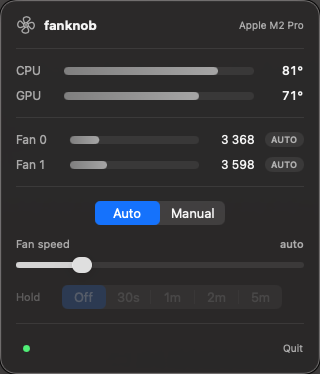
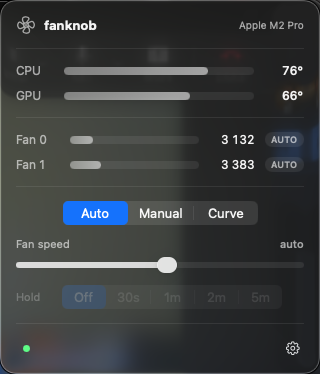
v1.1.0: docs, screenshots, and fixes from live hardware testing
Verified the whole feature set against real fans with the daemon
running, which turned up two bugs:
- The curve-mode slider still showed the stale manual setpoint while
  the label showed the curve's output (11% vs 69%). It now reads from
  the curve, and is inert until you switch to Manual.
- `set --fan` reported the RPM by reading the target back, which is
  stale for tens of ms after a write; it now reports the value the
  write itself resolved.

Measured on an M2 Pro: the quiet curve at 81 °C asked for 37% (matches
the interpolation), pushed fans above firmware, cooled the machine to
73 °C and smoothly backed down to 18% with no hunting. Watchdog tripped
on cue and stayed put. Per-fan left fan 0 at 3215 rpm while fan 1 went
to 5379.

Docs: curves / watchdog / persistence / per-fan sections, refreshed
screenshots (auto + curve), accurate TUI sample, and the UI acceptance
script no longer hardcodes /usr/local/bin.

diff --git a/Sources/fanknobd/Main.swift b/Sources/fanknobd/Main.swift
@@ -62,8 +62,9 @@ final class Controller {
         case .auto:
             break   // the firmware already has the fans after boot
         case .manual(let knobs):
-            for k in knobs where apply(k.pct, fan: k.index, force: true) { }
-            log("restored manual setpoints")
+            for k in knobs { apply(k.pct, fan: k.index, force: true) }
+            log("restored manual setpoints: "
+                + knobs.map { "fan \($0.index) \(Int($0.pct))%" }.joined(separator: ", "))
         case .curve(let curve, let preset):
             log("restored curve: \(preset?.rawValue ?? "custom")")
             applyCurve(curve, force: true)
@@ -84,14 +85,18 @@ final class Controller {
 
     private var fanIndices: [Int] { Array(0..<fanCount(smc)) }
 
-    /// Write one fan. Curve ticks use a deadband so small drifts don't cause
-    /// audible hunting; explicit user commands force the write.
+    /// Write one fan and return the resolved RPM (nil if skipped or failed).
+    /// Curve ticks use a deadband so small drifts don't cause audible hunting;
+    /// explicit user commands force the write.
+    ///
+    /// The RPM comes from the write itself, never from reading the target back
+    /// — the SMC reports stale values for tens of ms after a write.
     @discardableResult
-    private func apply(_ pct: Double, fan: Int, force: Bool = false) -> Bool {
-        if !force, let last = lastApplied[fan], abs(last - pct) < 2 { return true }
-        guard (try? setFanKnob(smc, fan, pct: pct)) != nil else { return false }
+    private func apply(_ pct: Double, fan: Int, force: Bool = false) -> Double? {
+        if !force, let last = lastApplied[fan], abs(last - pct) < 2 { return nil }
+        guard let rpm = try? setFanKnob(smc, fan, pct: pct) else { return nil }
         lastApplied[fan] = pct
-        return true
+        return rpm
     }
 
     private func applyCurve(_ curve: FanCurve, force: Bool = false) {
@@ -219,8 +224,8 @@ final class Controller {
 
         var lines: [String] = []
         for i in fans {
-            if apply(pct, fan: i, force: true), let f = readFan(smc, i) {
-                lines.append(String(format: "fan %d -> %.0f rpm (knob %d%%)", i, f.target, Int(pct)))
+            if let rpm = apply(pct, fan: i, force: true) {
+                lines.append(String(format: "fan %d -> %.0f rpm (knob %d%%)", i, rpm, Int(pct)))
             } else {
                 lines.append("fan \(i): write failed")
             }

diff --git a/Sources/FanknobApp/PopoverView.swift b/Sources/FanknobApp/PopoverView.swift
@@ -227,6 +227,13 @@ private struct ControlSection: View {
 private struct SpeedControl: View {
     @Bindable var model: FanModel
 
+    /// In curve mode the slider is a read-only readout of what the curve is
+    /// asking for; in manual it's the setpoint the user drags.
+    private var sliderBinding: Binding<Double> {
+        Binding(get: { model.displayKnob },
+                set: { if model.mode != .curve { model.knob = $0 } })
+    }
+
     var body: some View {
         VStack(alignment: .leading, spacing: 6) {
             HStack {
@@ -256,7 +263,7 @@ private struct SpeedControl: View {
                     PerFanSlider(model: model, index: fan.index)
                 }
             } else {
-                Slider(value: $model.knob, in: 0...100) { editing in
+                Slider(value: sliderBinding, in: 0...100) { editing in
                     model.editing = editing
                     if editing { model.mode = .manual }   // grabbing = manual intent
                     else { model.applyKnob() }

diff --git a/scripts/toggle-acceptance.py b/scripts/toggle-acceptance.py
@@ -15,11 +15,13 @@ Requirements:
 Usage:  python3 scripts/toggle-acceptance.py
 """
 
+import shutil
 import subprocess
 import sys
 import time
 
 CLICKER = "/tmp/fanknob-click"
+FANKNOB = shutil.which("fanknob") or "./.build/release/fanknob"
 PROC = "FanknobApp"
 TRIALS = 3
 WATCH_SECONDS = 2.2
@@ -68,7 +70,7 @@ def trial(target: tuple[int, int], expect: str, name: str) -> bool:
 
 def main() -> int:
     # Make sure the fans start in auto and the popover is open.
-    subprocess.run(["/usr/local/bin/fanknob", "auto"], capture_output=True)
+    subprocess.run([FANKNOB, "auto"], capture_output=True)
     time.sleep(1)
     if app("count of windows") == "0":
         app("click menu bar item 1 of menu bar 2")
@@ -88,7 +90,7 @@ def main() -> int:
         time.sleep(0.8)
 
     # Leave the fans under firmware control.
-    subprocess.run(["/usr/local/bin/fanknob", "auto"], capture_output=True)
+    subprocess.run([FANKNOB, "auto"], capture_output=True)
     print("RESULT:", "PASS" if ok else "FAIL")
     return 0 if ok else 1
 

diff --git a/README.md b/README.md
@@ -9,7 +9,7 @@
 Control your Mac's fans with a **0–100 knob** (mapped onto each fan's own
 min→max RPM range) and monitor CPU/GPU temperatures. Three faces on one engine:
 
-- **`fanknob`** — CLI (`status`, `temp`, `set`, `auto`, …)
+- **`fanknob`** — CLI (`status`, `set`, `preset`, `curve`, `auto`, …)
 - **`fanknob tui`** — live interactive terminal dashboard
 - **Fanknob.app** — a native SwiftUI **menu-bar app**
 
@@ -19,12 +19,12 @@ Control use. Tested on a MacBook Pro 14" (M2 Pro, macOS 26).
 <p align="center">
   <img src="assets/screenshots/popover-auto.png" width="300" alt="Popover in automatic mode">
   &nbsp;&nbsp;
-  <img src="assets/screenshots/popover-manual.png" width="300" alt="Popover in manual mode with a 30s hold armed">
+  <img src="assets/screenshots/popover-curve.png" width="300" alt="Popover in curve mode with the Balanced preset">
 </p>
 <p align="center">
   <img src="assets/screenshots/menubar.png" alt="Menu bar: fan icon with live CPU temperature">
   <br>
-  <em>Live CPU temperature in the menu bar; the fan turns accent-colored while in manual mode.</em>
+  <em>Live CPU temperature in the menu bar; the fan turns accent-colored whenever you are overriding the firmware.</em>
 </p>
 
 ## Layout
@@ -91,28 +91,83 @@ The one-time `sudo` on install is unavoidable: granting future passwordless root
 access requires proving you're root once. After that the root daemon performs
 the writes, and the CLI/app stay unprivileged — no `sudo` per command.
 
+## Temperature curves
+
+Instead of pinning a fixed speed, hand the fans to a curve and the daemon
+tracks CPU temperature for you — quiet when idle, ramping as it heats:
+
+```sh
+fanknob preset quiet          # silent until ~72 °C, full by 94 °C
+fanknob preset balanced       # default: responsive without being loud
+fanknob preset turbo          # keeps things cold, audibly
+fanknob curve 55:0,72:20,85:60,93:100     # or roll your own °C:% points
+```
+
+The curve is evaluated every 2 s against a smoothed CPU-cluster average, with
+a small deadband so fans don't hunt. Between points the speed is interpolated
+linearly; outside the endpoints it's held flat.
+
+### Thermal watchdog
+
+While any override is active, the daemon watches the temperature and hands the
+fans back to the firmware if it crosses a limit (default 95 °C):
+
+```sh
+fanknob watchdog 90           # stricter
+fanknob watchdog off          # you're on your own
+```
+
+It's deliberately sticky: once tripped it stays in automatic until you ask for
+something new, rather than flapping in and out of an override that isn't
+keeping up. `fanknob status` and the app both report a trip.
+
+### Persistence
+
+The active mode and watchdog threshold live in
+`/Library/Application Support/fanknob/config.json` and are restored when the
+daemon starts, so a curve survives reboots.
+
+## Per-fan control
+
+```sh
+fanknob set 60 --fan 1        # just fan 1; the others keep their setpoints
+```
+
+In the app, switch the speed row from **Linked** to **Individual** for a
+slider per fan.
+
 ## The menu-bar app
 
 `make run-app` (or `open -a Fanknob` after install) puts a fan icon + live CPU
 temperature in your menu bar. Click it for:
 
-- CPU / GPU temperature gauges (green→red) and per-fan RPM gauges
-- a **Knob** slider (0–100%) that applies live via the daemon
-- an **Auto** button and a **Hold** picker (Off / 30s / 1m / 2m / 5m) with a
-  live countdown — the fans revert to automatic on their own
-- a status line showing whether the helper daemon is connected
+- CPU / GPU temperature gauges and per-fan RPM gauges
+- an **Auto / Manual / Curve** mode picker
+- a **Fan speed** slider that applies live (or one slider per fan — switch the
+  row from *Linked* to *Individual*)
+- **Quiet / Balanced / Turbo** curve presets, and in manual mode a **Hold**
+  picker (Off / 30s / 1m / 2m / 5m) with a live countdown
+- a gear menu with **Open at login** and the watchdog threshold
+- a status light (hover it) and a header warning if the watchdog trips
 
 It runs as a menu-bar agent (no Dock icon). Writes go through the daemon, so the
 app never needs elevated privileges.
 
+> Toggle **Open at login** from the installed copy (`/Applications/Fanknob.app`)
+> — login items register whichever bundle is running.
+
 ## CLI
 
 ```sh
-fanknob status              # fans + CPU/GPU temperature   (no sudo)
+fanknob status              # fans, temps, and what the daemon is driving
 fanknob tui                 # live interactive dashboard
 fanknob temp                # every temperature sensor
 fanknob set 40              # all fans to 40% of range      (no sudo — via daemon)
 fanknob set 60 --for 120    # hold 60% for 120s, then auto-revert
+fanknob set 60 --fan 1      # just one fan
+fanknob preset balanced     # temperature curve
+fanknob curve 55:0,90:100   # custom curve
+fanknob watchdog 90         # thermal safety limit
 fanknob auto                # back to automatic control
 fanknob keys [prefix]       # dump SMC keys (default 'F')
 ```
@@ -127,15 +182,21 @@ otherwise run them with `sudo`.
 ```
  fanknob   Apple M2 Pro
  ──────────────────────────────────────────────
- Fan 0  3301 rpm  █████▎░░░░░░░░░░░░░░░░░░  auto
- CPU   81°C  ███████████████████▍░░░░
- KNOB  22%  █████▎░░░░░░░░░░░░░░░░░░  MANUAL
- HOLD  1:45 → auto
+ Fan 0  4790 rpm  █████████████▏░░░░░░░░░░  MANUAL
+ Fan 1  4778 rpm  █████████████▏░░░░░░░░░░  MANUAL
  ──────────────────────────────────────────────
- ←/→ ±5  ↑/↓ ±1  1-9 preset  t hold  a auto  q quit
+ CPU   78°C  ██████████████████▊░░░░░
+ GPU   69°C  ████████████████▌░░░░░░░
+ ──────────────────────────────────────────────
+ KNOB  55%  █████████████▎░░░░░░░░░░  MANUAL
+ HOLD off
+ MODE curve balanced 45:5,65:25,80:60,90:100 → 56%
+ ──────────────────────────────────────────────
+ ←/→ ±5  ↑/↓ ±1  0-9 speed  c curve  t hold  a auto  q quit
 ```
 
-`←/→` ±5, `↑/↓` ±1, `1`–`9` presets, `t` cycles the hold, `a` auto, `q` quit.
+`←/→` ±5, `↑/↓` ±1, `0`–`9` jump to a speed, `c` cycles curves, `t` the hold,
+`a` auto, `q` quit.
 
 ## Testing
 
@@ -151,9 +212,11 @@ running, the daemon installed, and Accessibility permission for the terminal.
 
 ## Important
 
-- **Return to auto when done** (`fanknob auto`, the app's Auto button, or let a
-  hold expire). In manual mode you own thermal safety, not the firmware — don't
-  leave fans pinned low under load.
+- A **fixed** speed means you own thermal management, not the firmware. The
+  thermal watchdog is the backstop (default 95 °C), but prefer a **curve** if
+  you're leaving an override on — it responds to heat, a fixed speed doesn't.
+- Return to auto when done: `fanknob auto`, the app's Auto button, or let a
+  hold expire.
 - MacBook Air is fanless; nothing to control there.
 
 ## How it works
@@ -177,9 +240,11 @@ this — see the comment in `Sources/FanknobCore/SMC.swift`.
 
 ### Daemon security
 
-The root daemon accepts only two commands (`set <0-100> [seconds]`, `auto`) over
-its socket, so even though any local user can connect, it can't be driven to do
-anything but move the fans.
+The root daemon accepts only a fixed set of commands over its socket (`set`,
+`setfan`, `curve`, `preset`, `watchdog`, `auto`, `state`), each parsed and
+range-checked by one pure function before anything reaches the SMC. So even
+though any local user can connect, it can't be driven to do anything but move
+the fans.
 
 The daemon is also a system-wide singleton (flock on `/var/run/fanknobd.lock`):
 if a second instance starts — say a Homebrew-managed daemon next to a
